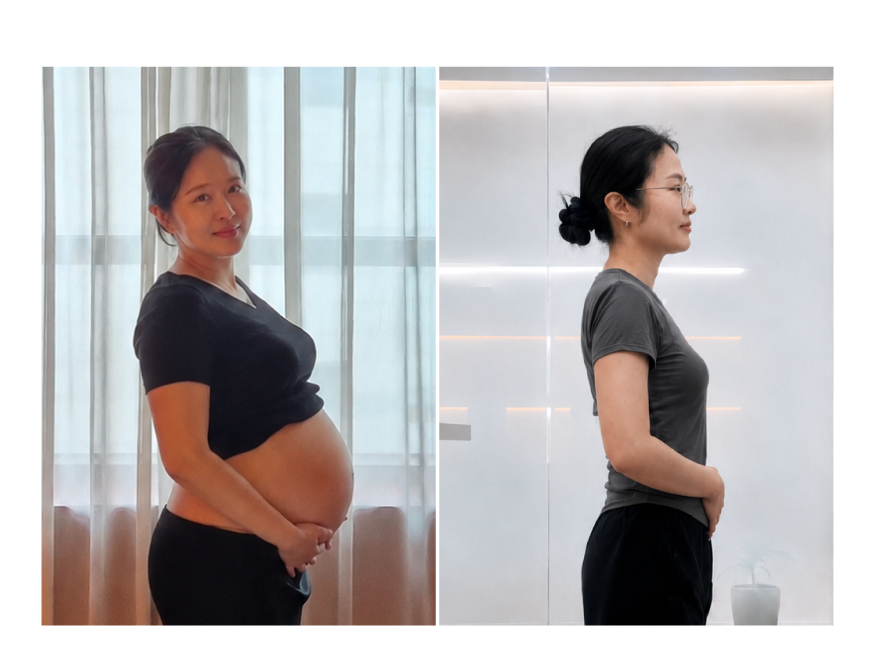
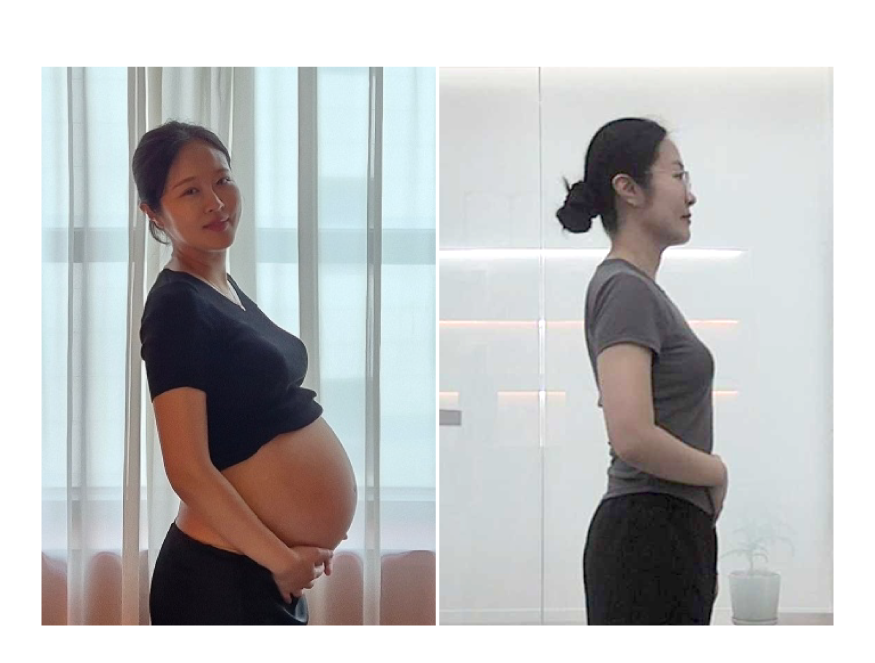
.

Changed region(s): [[0.0309, 0.0905, 0.9566, 0.9653], [0.8331, 0.181, 0.9566, 0.2413], [0.8949, 0.905, 0.9566, 0.9653]]

diff --git a/css/geno.css b/css/geno.css
@@ -861,6 +861,74 @@ em.point_color{color: #e65a1e;}
 
 .main.mom .con .ttl{margin-bottom: 30px;}
 
+/* Mom landing hero: image copy was replaced with accessible, responsive text. */
+.main_copy_box{
+    width: 100%;
+    padding: 0 5%;
+    margin-bottom: clamp(12px, 2.2vw, 20px);
+    box-sizing: border-box;
+    text-align: center;
+    color: #403632;
+}
+.main_copy_box__title{
+    margin: 0;
+    font-family: inherit;
+    font-size: clamp(34px, 9.15vw, 77px);
+    font-weight: 800;
+    line-height: .98;
+    letter-spacing: -.095em;
+    word-break: keep-all;
+}
+.main_copy_box__accent,
+.main_copy_box__line{display: block;}
+.main_copy_box__accent{
+    position: relative;
+    width: max-content;
+    max-width: 100%;
+    color: #ff3b0b;
+    font-size: 1.25em;
+    margin: 0 auto clamp(30px, 4.1vw, 36px);
+}
+.main_copy_box__accent-hot{color: #ff3b0b;}
+.main_copy_box__accent-tail{color: #403632;}
+.main_copy_box__dots{
+    position: absolute;
+    right: 38%;
+    bottom: calc(100% + clamp(13px, 2vw, 17px));
+    left: 5%;
+    display: flex;
+    justify-content: space-between;
+}
+.main_copy_box__dots i{
+    width: clamp(9px, 1.45vw, 12px);
+    height: clamp(9px, 1.45vw, 12px);
+    border-radius: 50%;
+    background: #ff3b0b;
+}
+.main_copy_box__rewind{
+    display: flex;
+    width: clamp(500px, 64vw, 548px);
+    margin: 0 auto clamp(13px, 2vw, 18px);
+    color: #403632;
+    font-size: 2.75em;
+    font-weight: 900;
+    line-height: .8;
+    letter-spacing: -.12em;
+}
+.main_copy_box__word{
+    display: flex;
+    justify-content: space-between;
+    width: 100%;
+}
+.main_copy_box__line{
+    font-size: 1.06em;
+}
+
+@media (max-width: 479px){
+    .main_copy_box__title{font-size: 30px;}
+    .main_copy_box__rewind{width: min(90vw, 500px); font-size: 2.25em;}
+}
+
 .main.mom .con.sa{
     filter: blur(8px);
     transform: scale(1.025);
@@ -1021,12 +1089,31 @@ em.point_color{color: #e65a1e;}
 }
 .reco_list .reco_unit.is-active .reco_copy{color: #fff;}
 .reco_list .reco_unit .point{
+    position: relative;
+    display: inline-block;
     line-height: 1.2;
     color: inherit;
 }
 .reco_list .reco_unit.is-active .point{
     color: #ddc8af;
     font-weight: 700;
+}
+.reco_list .reco_unit.is-active .point::after{
+    content: '';
+    position: absolute;
+    right: 0;
+    bottom: -.16em;
+    left: 0;
+    height: 2px;
+    background-color: currentColor;
+    transform: scaleX(0);
+    transform-origin: left;
+    animation: point-line .7s cubic-bezier(.22, 1, .36, 1) both;
+}
+
+@keyframes point-line{
+    from{transform: scaleX(0);}
+    to{transform: scaleX(1);}
 }
 
 @media (prefers-reduced-motion: reduce){
@@ -1038,6 +1125,7 @@ em.point_color{color: #e65a1e;}
     .reco_list .reco_unit,
     .reco_list .reco_icon{transition: none;}
     .mom-scroll-section .section-title-motion{transform: none;}
+    .reco_list .reco_unit.is-active .point::after{animation: none;}
 }
 
 

diff --git a/template/genobody/2026/2607_geno_mom.html b/template/genobody/2026/2607_geno_mom.html
@@ -174,7 +174,14 @@
                             <div class="mom main">
                                 <img class="com_img mom_logo sa sa-up" src="https://winawork.github.io/images/geno/2026/mom/mom_01.png">
                                 <div class="con sa sa-up dy1">
-                                    <img class="com_img ttl" src="https://winawork.github.io/images/geno/2026/mom/mom_02.gif">
+                                    <!-- <img class="com_img ttl" src="https://winawork.github.io/images/geno/2026/mom/mom_02.gif"> -->
+                                    <div class="main_copy_box" aria-label="출산 전 몸으로 다시 돌아갈 수 있습니다">
+                                        <h1 class="main_copy_box__title">
+                                            <span class="main_copy_box__accent"><span class="main_copy_box__dots" aria-hidden="true"><i></i><i></i><i></i><i></i></span><span class="main_copy_box__accent-hot">출산 전 몸</span><span class="main_copy_box__accent-tail">으로</span></span>
+                                            <span class="main_copy_box__rewind"><span class="main_copy_box__word"><span>다</span><span>시</span></span></span>
+                                            <span class="main_copy_box__line">돌아갈 수 있습니다.</span>
+                                        </h1>
+                                    </div>
                                     <img class="com_img " src="https://winawork.github.io/images/geno/2026/mom/mom_03.png">
                                 </div>
                             </div>